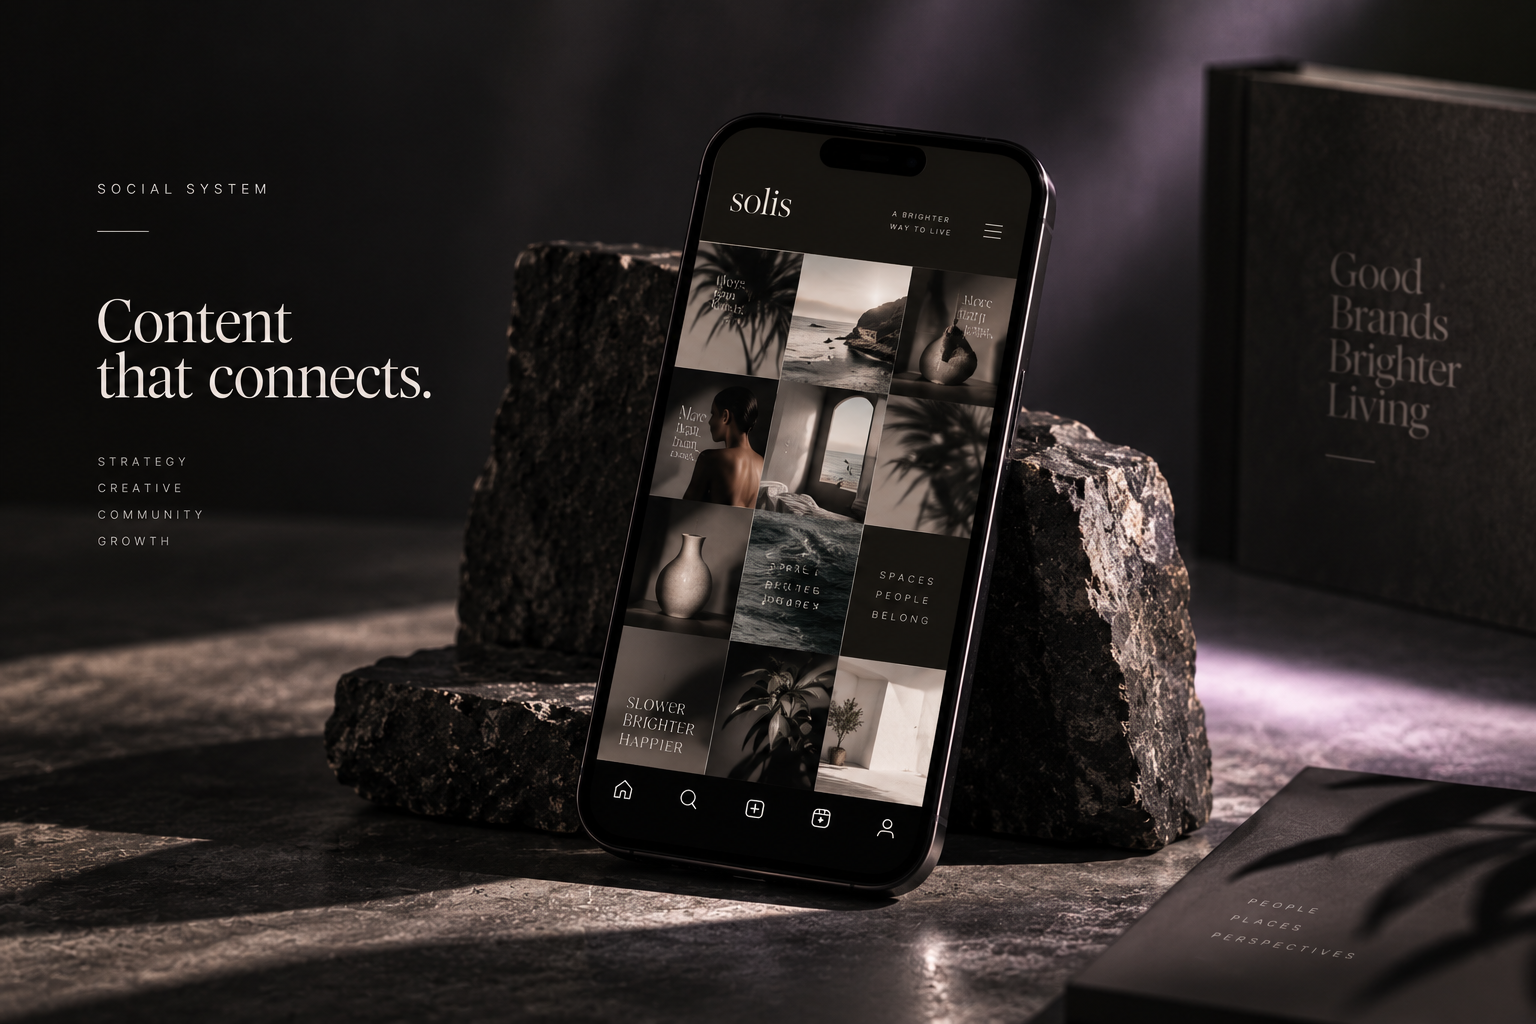
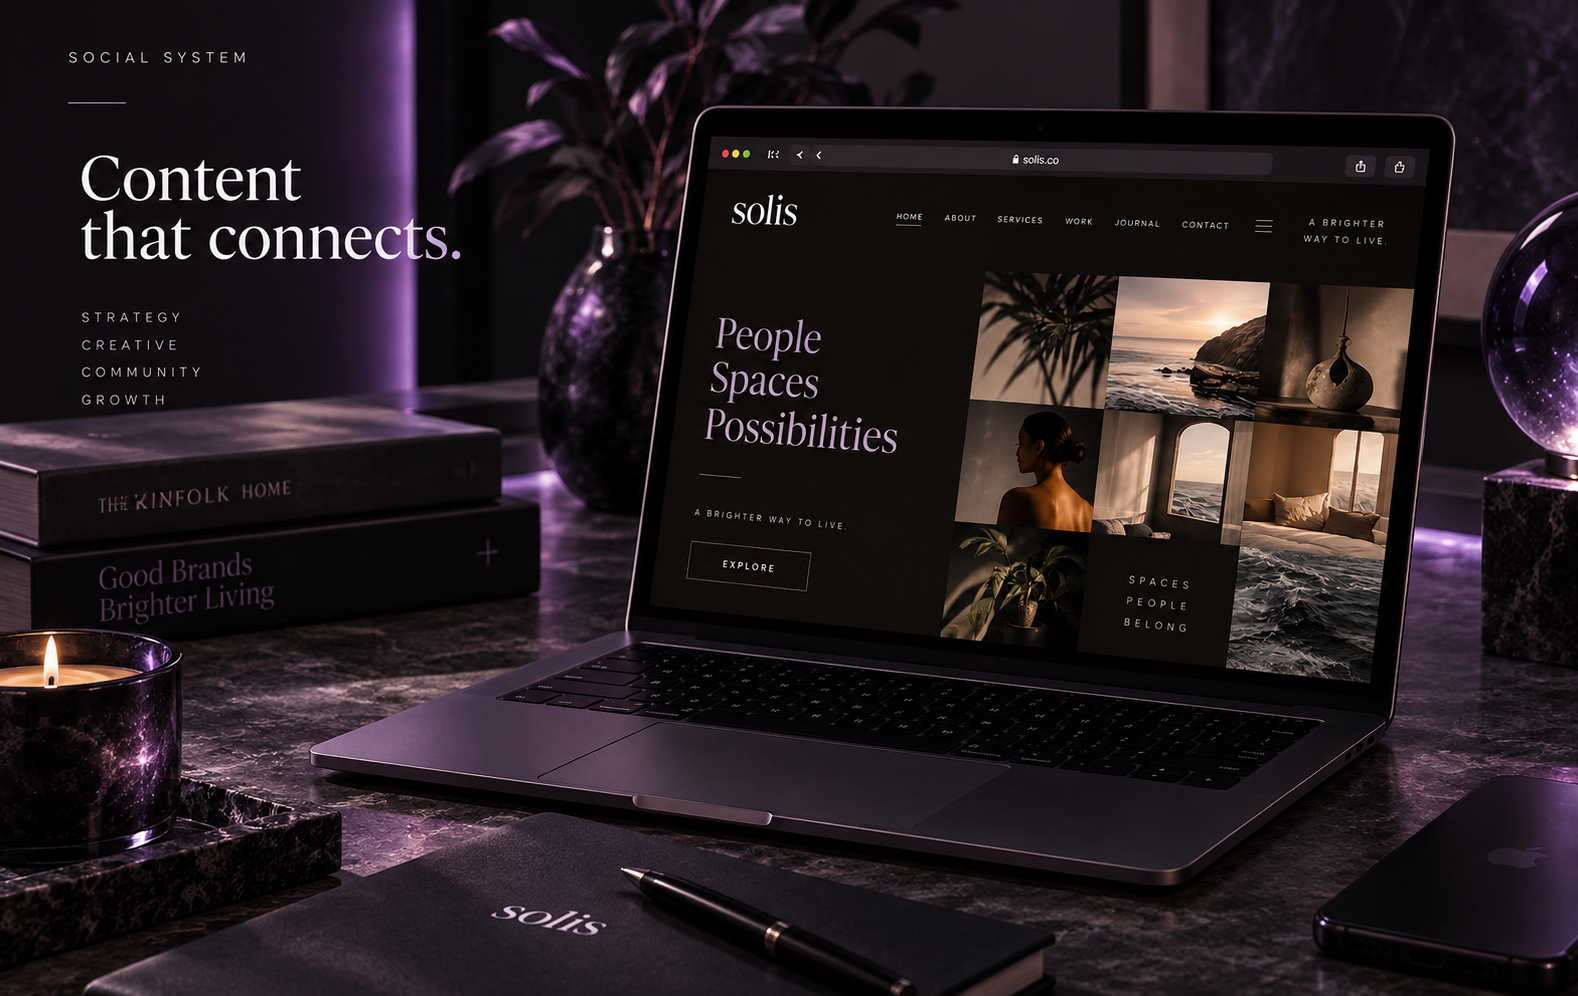
Add carousel to Social Media Marketing project and rename from Social system
- Rename "Social system" project to "Social Media Marketing"
- Add three concept images as a carousel for the project row,
  matching the Editorial commerce treatment
- Update editorial-commerce-2.png with a revised concept image

diff --git a/src/data/work.ts b/src/data/work.ts
@@ -1,8 +1,10 @@
-import work02 from "@/assets/work-02.jpg";
 import work03 from "@/assets/work-03.jpg";
 import editorialCommerce1 from "@/assets/editorial-commerce-1.png";
 import editorialCommerce2 from "@/assets/editorial-commerce-2.png";
 import editorialCommerce3 from "@/assets/editorial-commerce-3.png";
+import socialMediaMarketing1 from "@/assets/social-media-marketing-1.png";
+import socialMediaMarketing2 from "@/assets/social-media-marketing-2.png";
+import socialMediaMarketing3 from "@/assets/social-media-marketing-3.png";
 
 export interface Project {
   id: string;
@@ -57,14 +59,15 @@ export const PROJECTS: Project[] = [
   {
     id: "social-system",
     index: "02",
-    title: "Social system",
+    title: "Social Media Marketing",
     client: "Independent concept",
     industry: "Hospitality",
     service: "Brand & content direction",
     year: "Concept",
     summary:
       "A content system built around structure, mood and repeatable execution so the brand could appear clearer and more distinct across multiple channels.",
-    image: work02,
+    image: socialMediaMarketing1,
+    images: [socialMediaMarketing1, socialMediaMarketing2, socialMediaMarketing3],
     scope: ["Strategy", "Content direction", "Creative system", "Campaign planning"],
     sections: [
       {
